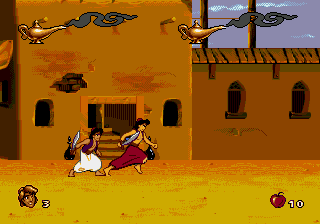
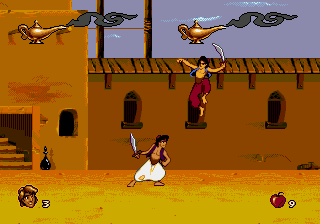
Use player gameplay screenshots and link the co-op video

diff --git a/README.md b/README.md
@@ -2,19 +2,15 @@
 
 Explore Agrabah with a friend! Play Aladdin's adventure together, from the opening level to the final showdown.
 
+## Watch the gameplay
+
+[Aladdin on Sega Genesis... Now With 2 Players!](https://youtu.be/08rOHvWDWrc)
+
 ## Screenshots
 
-### Agrabah
+<img src="docs/screenshots/agrabah.png" alt="P2 swinging above P1 while exploring Agrabah together" width="640">
 
-<img src="docs/screenshots/agrabah.png" alt="Both Aladdins exploring Agrabah, each with a separate lamp health bar" width="640">
-
-### Inside the Lamp
-
-<img src="docs/screenshots/inside-the-lamp.png" alt="The two players running together through the Genie's colorful world" width="640">
-
-### Sultan's Palace
-
-<img src="docs/screenshots/sultans-palace.png" alt="Both players exploring the Sultan's Palace" width="640">
+<img src="docs/screenshots/rope-climbing.png" alt="Both Aladdins climbing separate ropes in Agrabah" width="640">
 
 ## Play together
 
